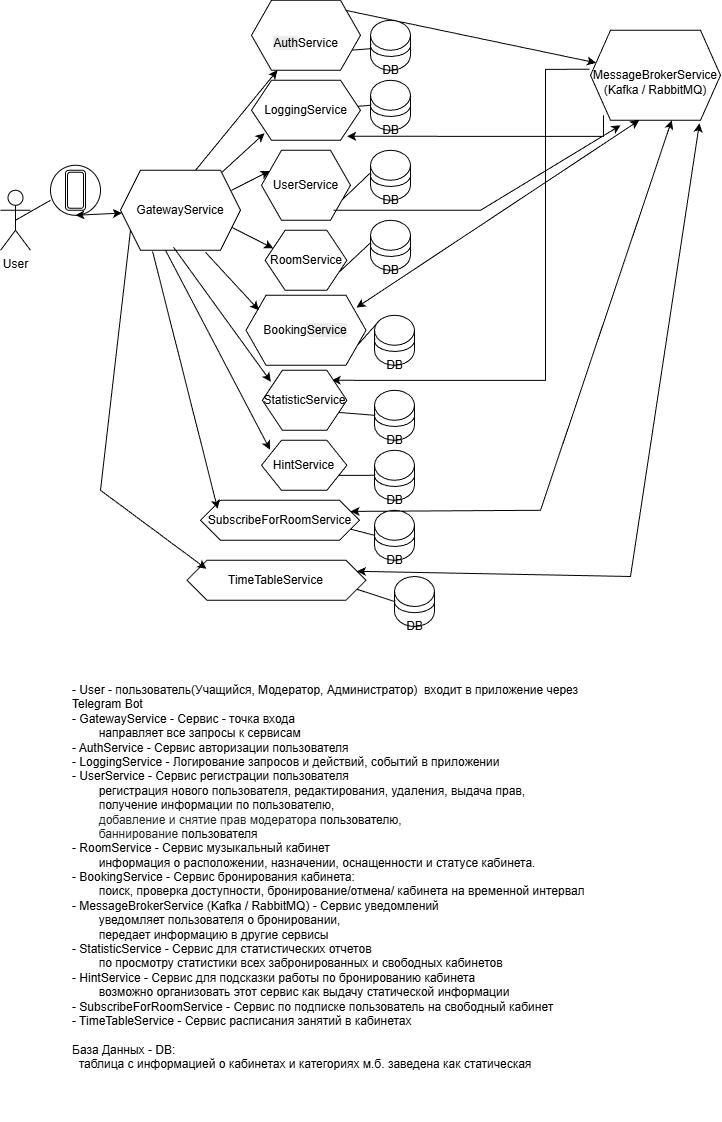
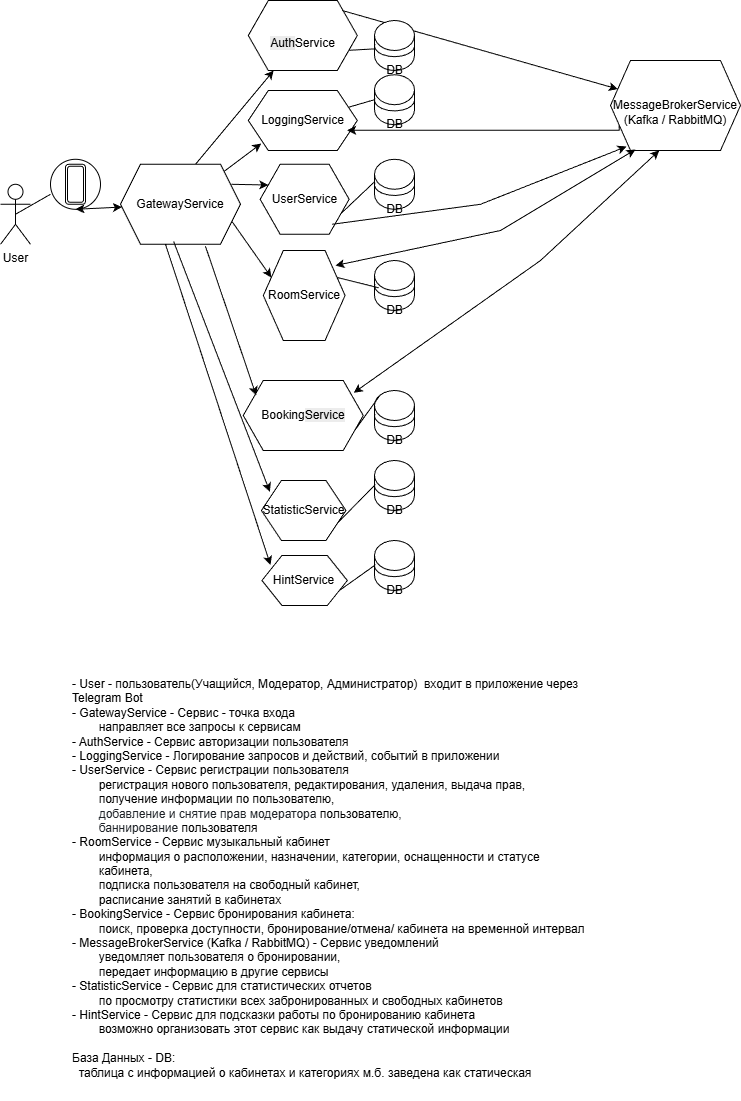
Архитектура проекта и описание

diff --git a/README.md b/README.md
@@ -6,19 +6,22 @@
 * Управление Бронированиями Студии (для Администраторов);
 * Система Уведомлений.
 ### Термины, краткое описание основных микросервисов:
-* - User - пользователь(Учащийся, Модератор, Администратор)  входит в приложение через Telegram Bot
+- User - пользователь(Учащийся, Модератор, Администратор)  входит в приложение через Telegram Bot
 - GatewayService - Сервис - точка входа
 	направляет все запросы к сервисам
 - AuthService - Сервис авторизации пользователя
 - LoggingService - Логирование запросов и действий, событий в приложении
 - UserService - Сервис регистрации пользователя
-	регистрация нового пользователя, редактирования, удаления, выдача прав, получение информации по пользователю,
+	регистрация нового пользователя, редактирования, удаления, выдача прав,
+  	получение информации по пользователю,
 	добавление и снятие прав модератора пользователю,
 	баннирование пользователя
 - RoomService - Сервис музыкальный кабинет
-    информация о расположении, назначении, оснащенности и статусе кабинета
-- BookingService - Сервис бронирования кабинета
-    поиск, проверка доступности, бронирование/отмена/ кабинета на временной интервал
+        информация о расположении, назначении, категории, оснащенности и статусе кабинета,
+	подписка пользователя на свободный кабинет,
+	расписание занятий в кабинетах
+- BookingService - Сервис бронирования кабинета:
+        поиск, проверка доступности, бронирование/отмена/ кабинета на временной интервал
 - MessageBrokerService (Kafka / RabbitMQ) - Сервис уведомлений
 	уведомляет пользователя о бронировании,
 	передает информацию в другие сервисы
@@ -26,9 +29,6 @@
 	по просмотру статистики всех забронированных и свободных кабинетов
 - HintService - Сервис для подсказки работы по бронированию кабинета
 	возможно организовать этот сервис как выдачу статической информации
-### Вспомогательные микросервисы:
-- SubscribeForRoomService - Сервис по подписке пользователя на свободный кабинет
-- TimeTableService - Сервис расписания занятий в кабинетах
-### Хранилище данных:
+
 База Данных - DB:
   таблица с информацией о кабинетах и категориях м.б. заведена как статическая
